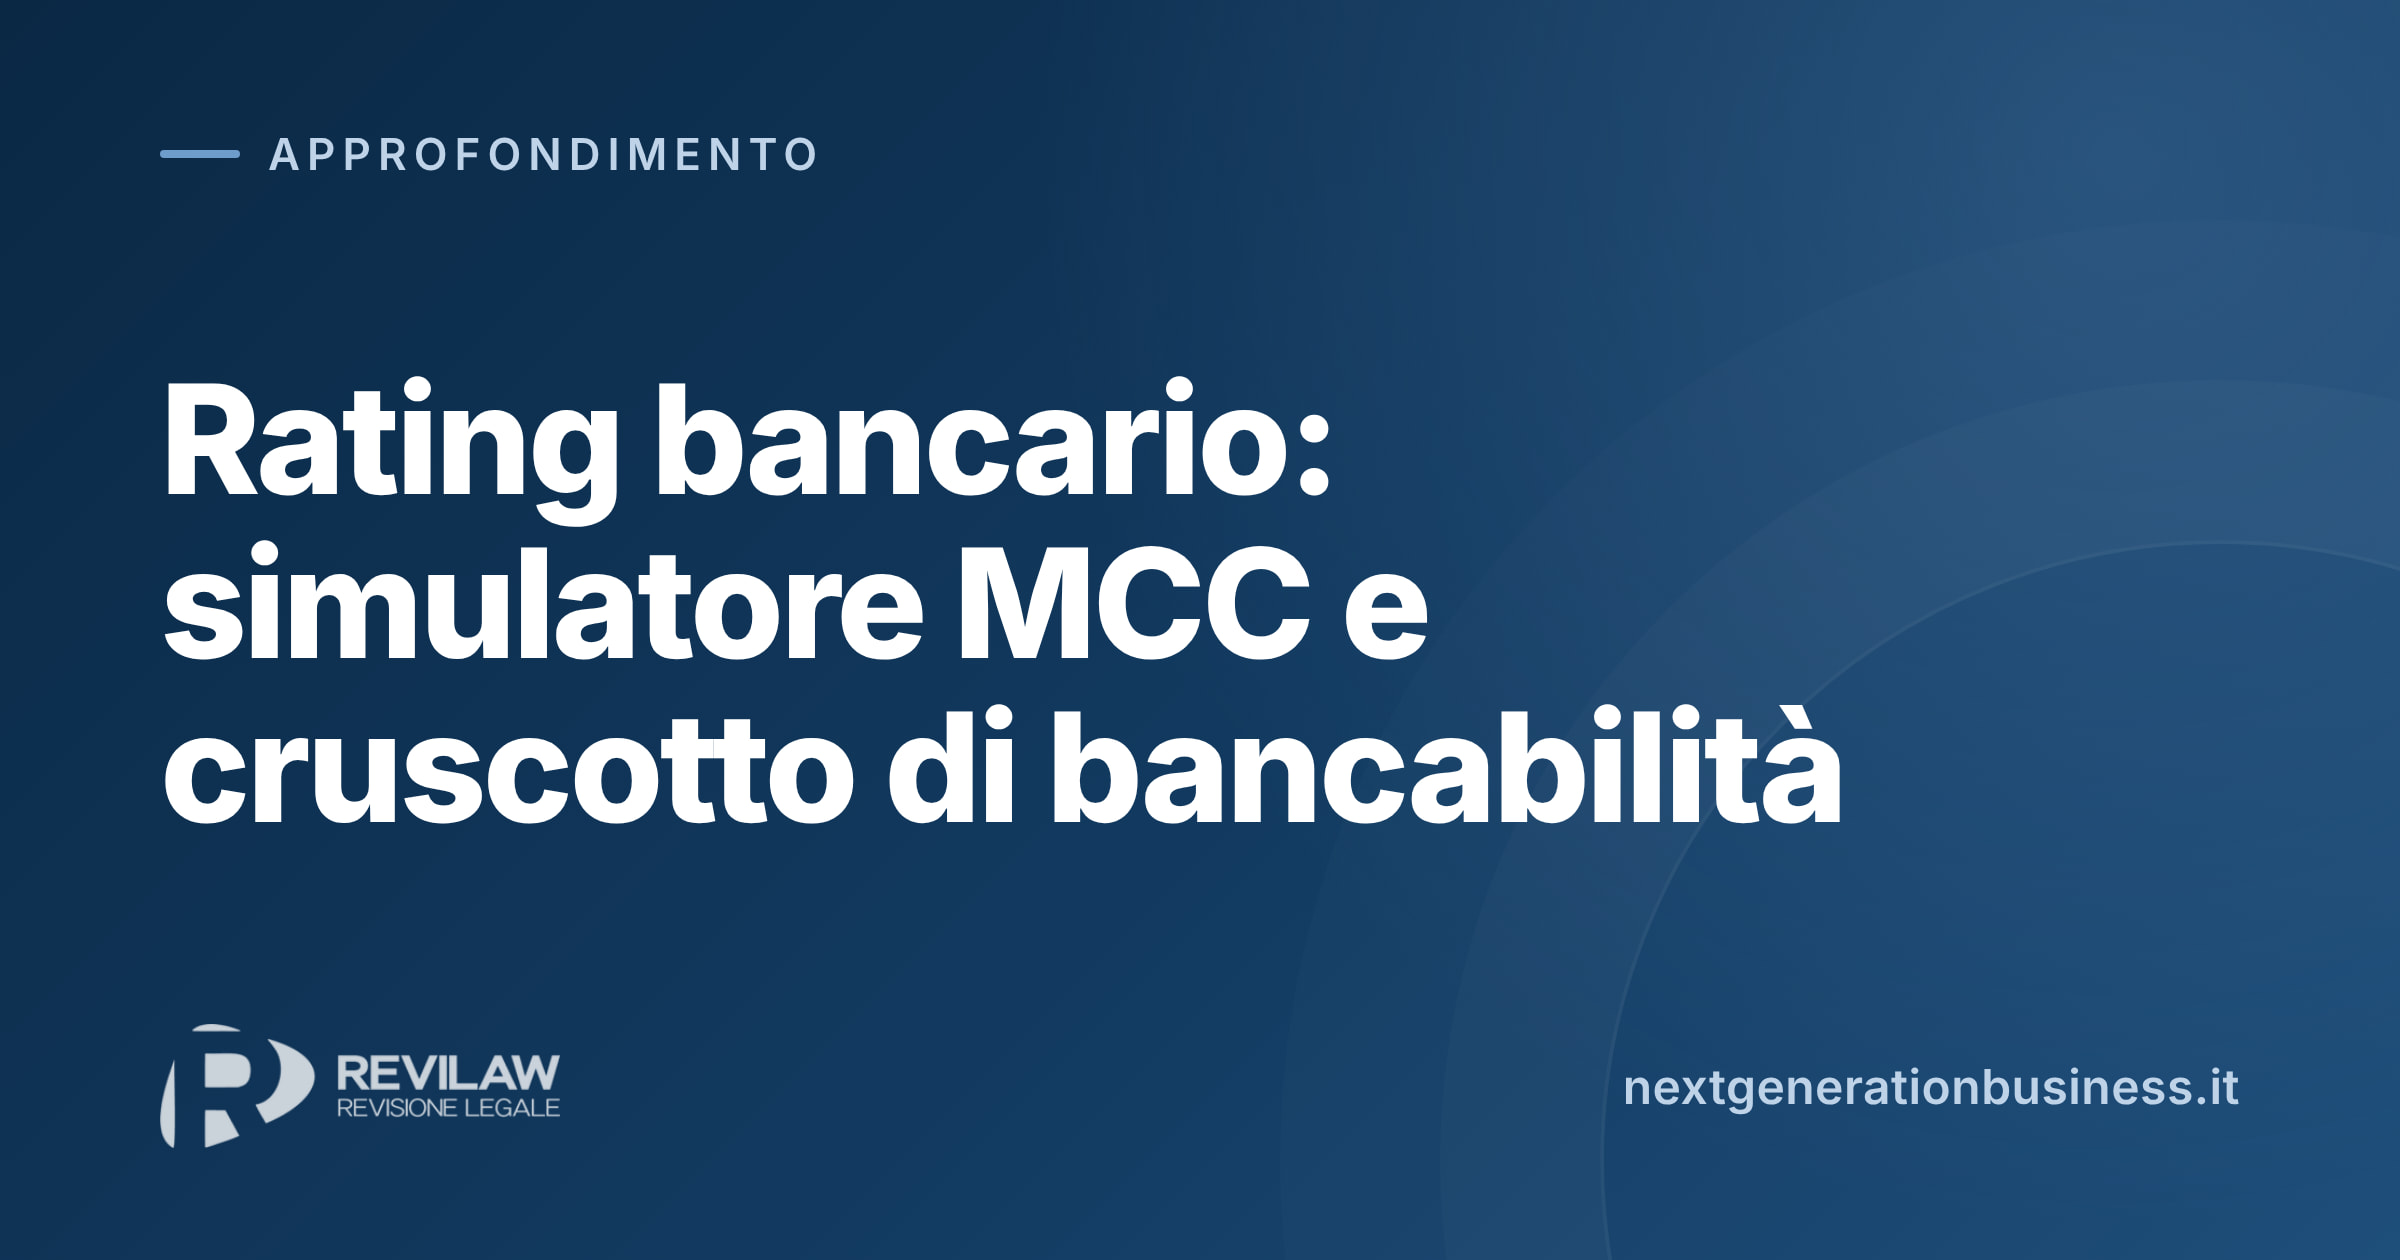
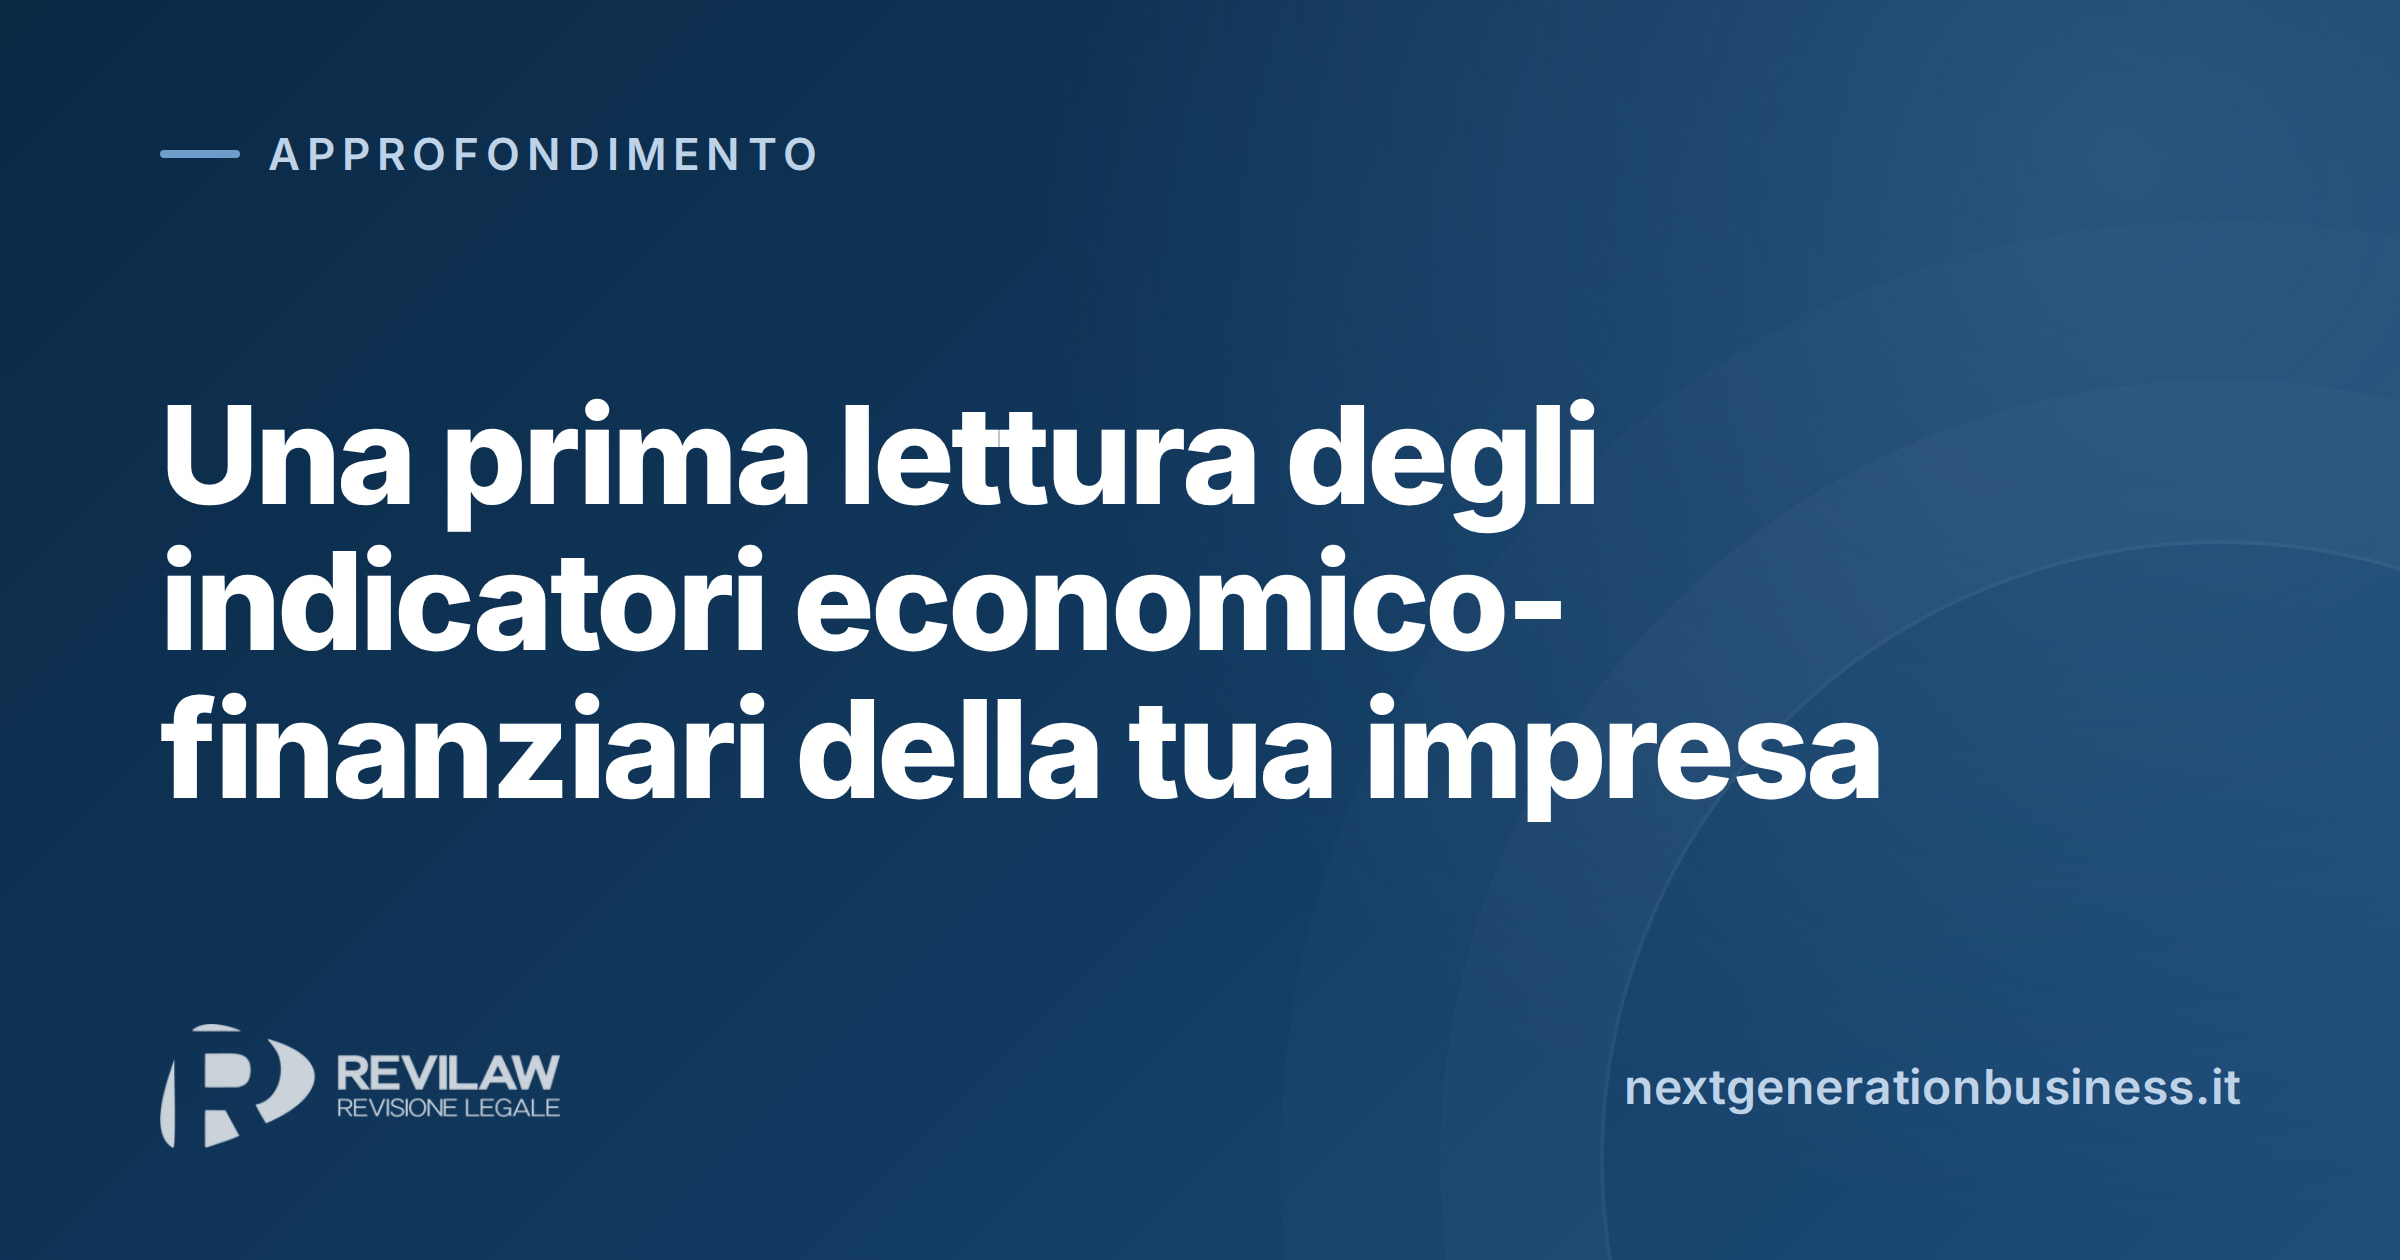
Anteprime social aggiornate

diff --git a/webinar_dicembre_2026/index.html b/webinar_dicembre_2026/index.html
@@ -34,12 +34,12 @@
     <meta property="og:url" content="https://nextgenerationbusiness.it/webinar_dicembre_2026/">
     <meta property="og:title" content="Revisione legale e merito creditizio, webinar 10 dicembre 2026 | Revilaw">
     <meta property="og:description" content="Webinar su invito, in diretta giovedì 10 dicembre 2026 dalle 15.00 alle 17.00: perché un bilancio affidabile conta quando l'impresa chiede credito. Revisione legale e merito creditizio in un dialogo con esempi dalle imprese, per imprenditori, amministratori e responsabili finanziari.">
-    <meta property="og:image" content="https://nextgenerationbusiness.it/assets/og/webinar_dicembre_2026.jpg?v=2e2c185441">
-    <meta property="og:image:secure_url" content="https://nextgenerationbusiness.it/assets/og/webinar_dicembre_2026.jpg?v=2e2c185441">
+    <meta property="og:image" content="https://nextgenerationbusiness.it/assets/og/webinar_dicembre_2026.jpg?v=7b7a35a001">
+    <meta property="og:image:secure_url" content="https://nextgenerationbusiness.it/assets/og/webinar_dicembre_2026.jpg?v=7b7a35a001">
     <meta property="og:image:type" content="image/jpeg">
     <meta property="og:image:width" content="2400">
     <meta property="og:image:height" content="1260">
-    <meta property="og:image:alt" content="Merito creditizio e revisione legale, webinar 10 dicembre 2026">
+    <meta property="og:image:alt" content="Revisione legale e merito creditizio, webinar 10 dicembre 2026">
     <meta property="og:locale" content="it_IT">
     <meta property="event:start_time" content="2026-12-10T15:00:00+01:00">
     <meta property="event:end_time" content="2026-12-10T17:00:00+01:00">
@@ -49,8 +49,8 @@
     <meta name="twitter:url" content="https://nextgenerationbusiness.it/webinar_dicembre_2026/">
     <meta name="twitter:title" content="Revisione legale e merito creditizio, webinar 10 dicembre 2026 | Revilaw">
     <meta name="twitter:description" content="Webinar su invito, in diretta giovedì 10 dicembre 2026 dalle 15.00 alle 17.00: perché un bilancio affidabile conta quando l'impresa chiede credito. Revisione legale e merito creditizio in un dialogo con esempi dalle imprese, per imprenditori, amministratori e responsabili finanziari.">
-    <meta name="twitter:image" content="https://nextgenerationbusiness.it/assets/og/webinar_dicembre_2026.jpg?v=2e2c185441">
-    <meta name="twitter:image:alt" content="Merito creditizio e revisione legale, webinar 10 dicembre 2026">
+    <meta name="twitter:image" content="https://nextgenerationbusiness.it/assets/og/webinar_dicembre_2026.jpg?v=7b7a35a001">
+    <meta name="twitter:image:alt" content="Revisione legale e merito creditizio, webinar 10 dicembre 2026">
 
     <!-- Fonts -->
     <link rel="preconnect" href="https://fonts.googleapis.com">

diff --git a/rating_bancario/index.html b/rating_bancario/index.html
@@ -27,19 +27,19 @@
     <meta property="og:url" content="https://nextgenerationbusiness.it/rating_bancario/">
     <meta property="og:title" content="Una prima lettura degli indicatori economico-finanziari della tua impresa | Revilaw">
     <meta property="og:description" content="Simula il rating bancario della tua società: modello MCC del Fondo di Garanzia, DSCR, indici CNDCEC e Z-Score, calcolati nel browser dai dati di bilancio.">
-    <meta property="og:image" content="https://nextgenerationbusiness.it/assets/og/rating_bancario.jpg?v=87471abff7">
+    <meta property="og:image" content="https://nextgenerationbusiness.it/assets/og/rating_bancario.jpg?v=6634dbff12">
     <meta property="og:image:type" content="image/jpeg">
     <meta property="og:image:width" content="2400">
     <meta property="og:image:height" content="1260">
-    <meta property="og:image:alt" content="Rating bancario: simulatore MCC e cruscotto di bancabilità">
+    <meta property="og:image:alt" content="Una prima lettura degli indicatori economico-finanziari della tua impresa">
     <meta property="og:locale" content="it_IT">
 
     <!-- Twitter Card -->
     <meta name="twitter:card" content="summary_large_image">
     <meta name="twitter:title" content="Rating bancario: simulatore MCC e cruscotto di bancabilità | Revilaw">
     <meta name="twitter:description" content="Simula il rating bancario della tua società: modello MCC del Fondo di Garanzia, DSCR, indici CNDCEC e Z-Score, calcolati nel browser dai dati di bilancio.">
-    <meta name="twitter:image" content="https://nextgenerationbusiness.it/assets/og/rating_bancario.jpg?v=87471abff7">
-    <meta name="twitter:image:alt" content="Rating bancario: simulatore MCC e cruscotto di bancabilità">
+    <meta name="twitter:image" content="https://nextgenerationbusiness.it/assets/og/rating_bancario.jpg?v=6634dbff12">
+    <meta name="twitter:image:alt" content="Una prima lettura degli indicatori economico-finanziari della tua impresa">
 
     <!-- Styles / Fonts -->
     <link rel="stylesheet" href="../zls_zes/style.css">
